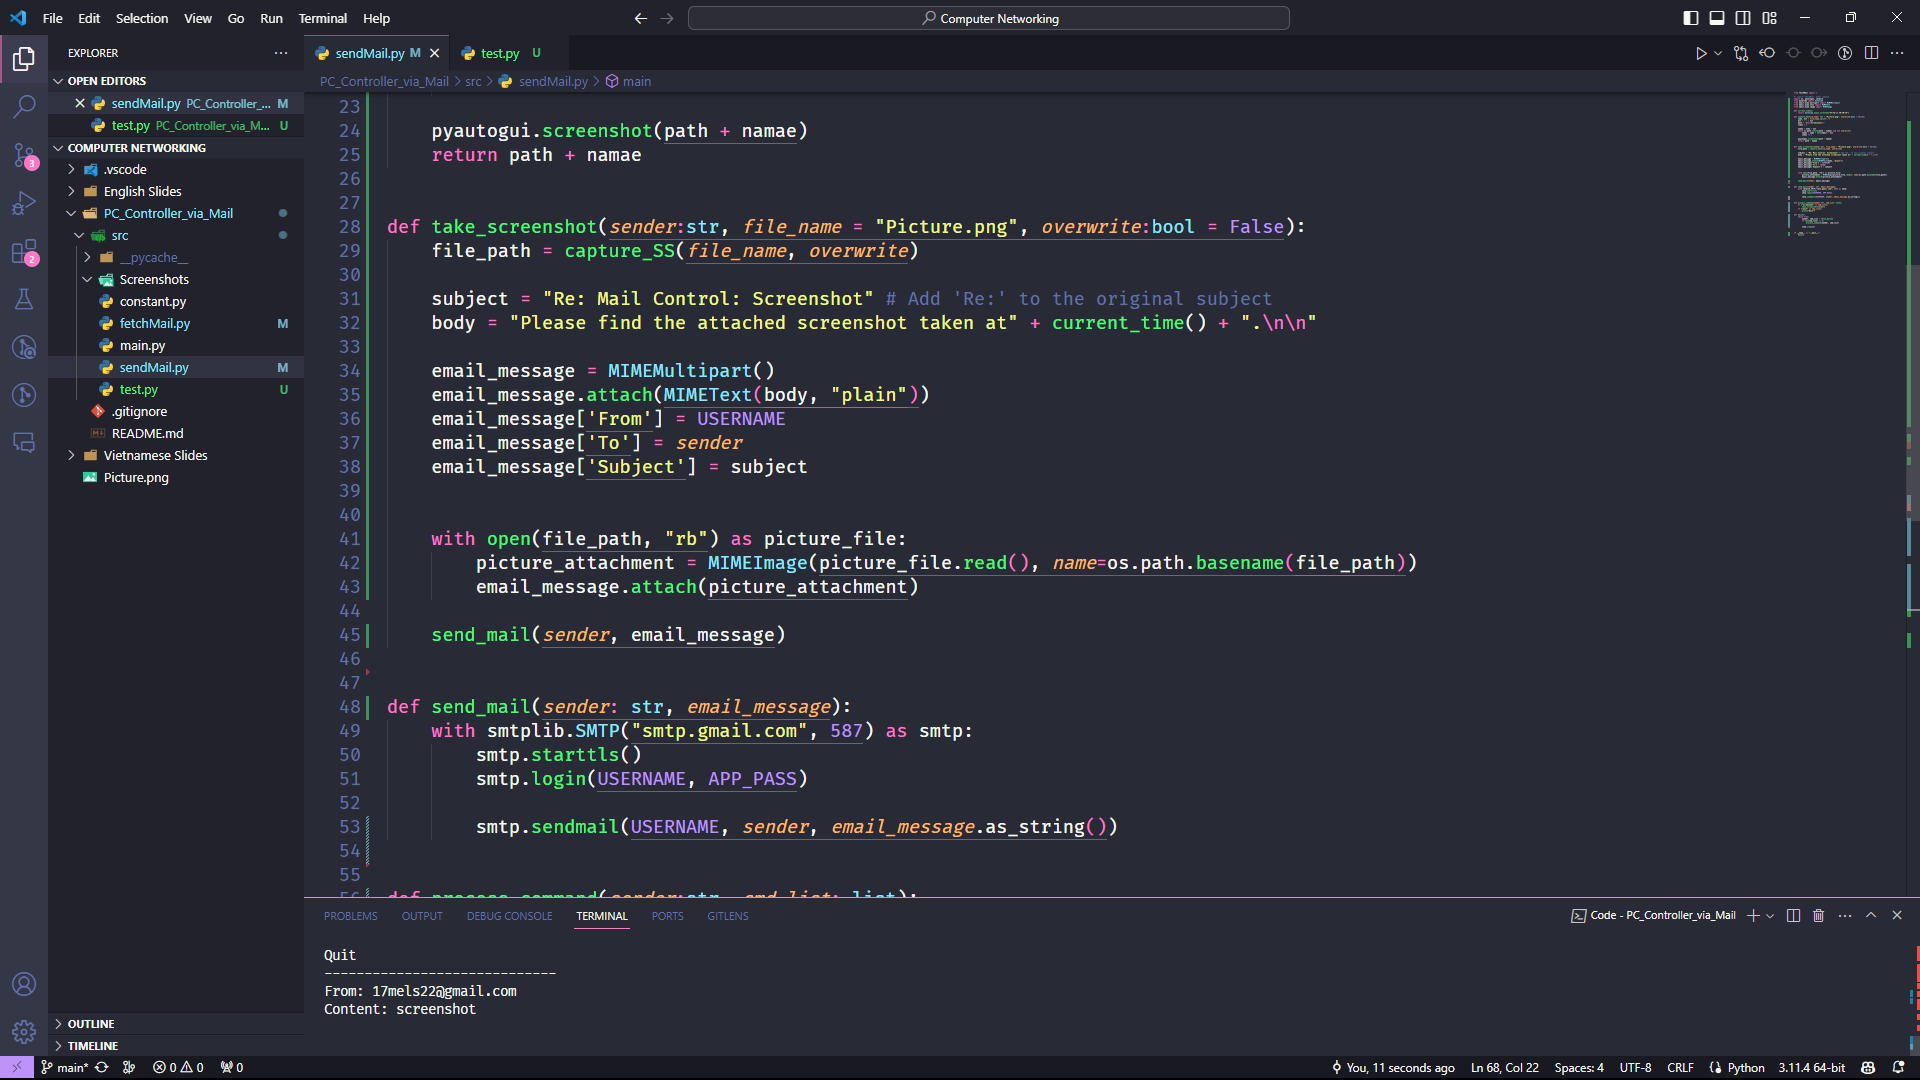
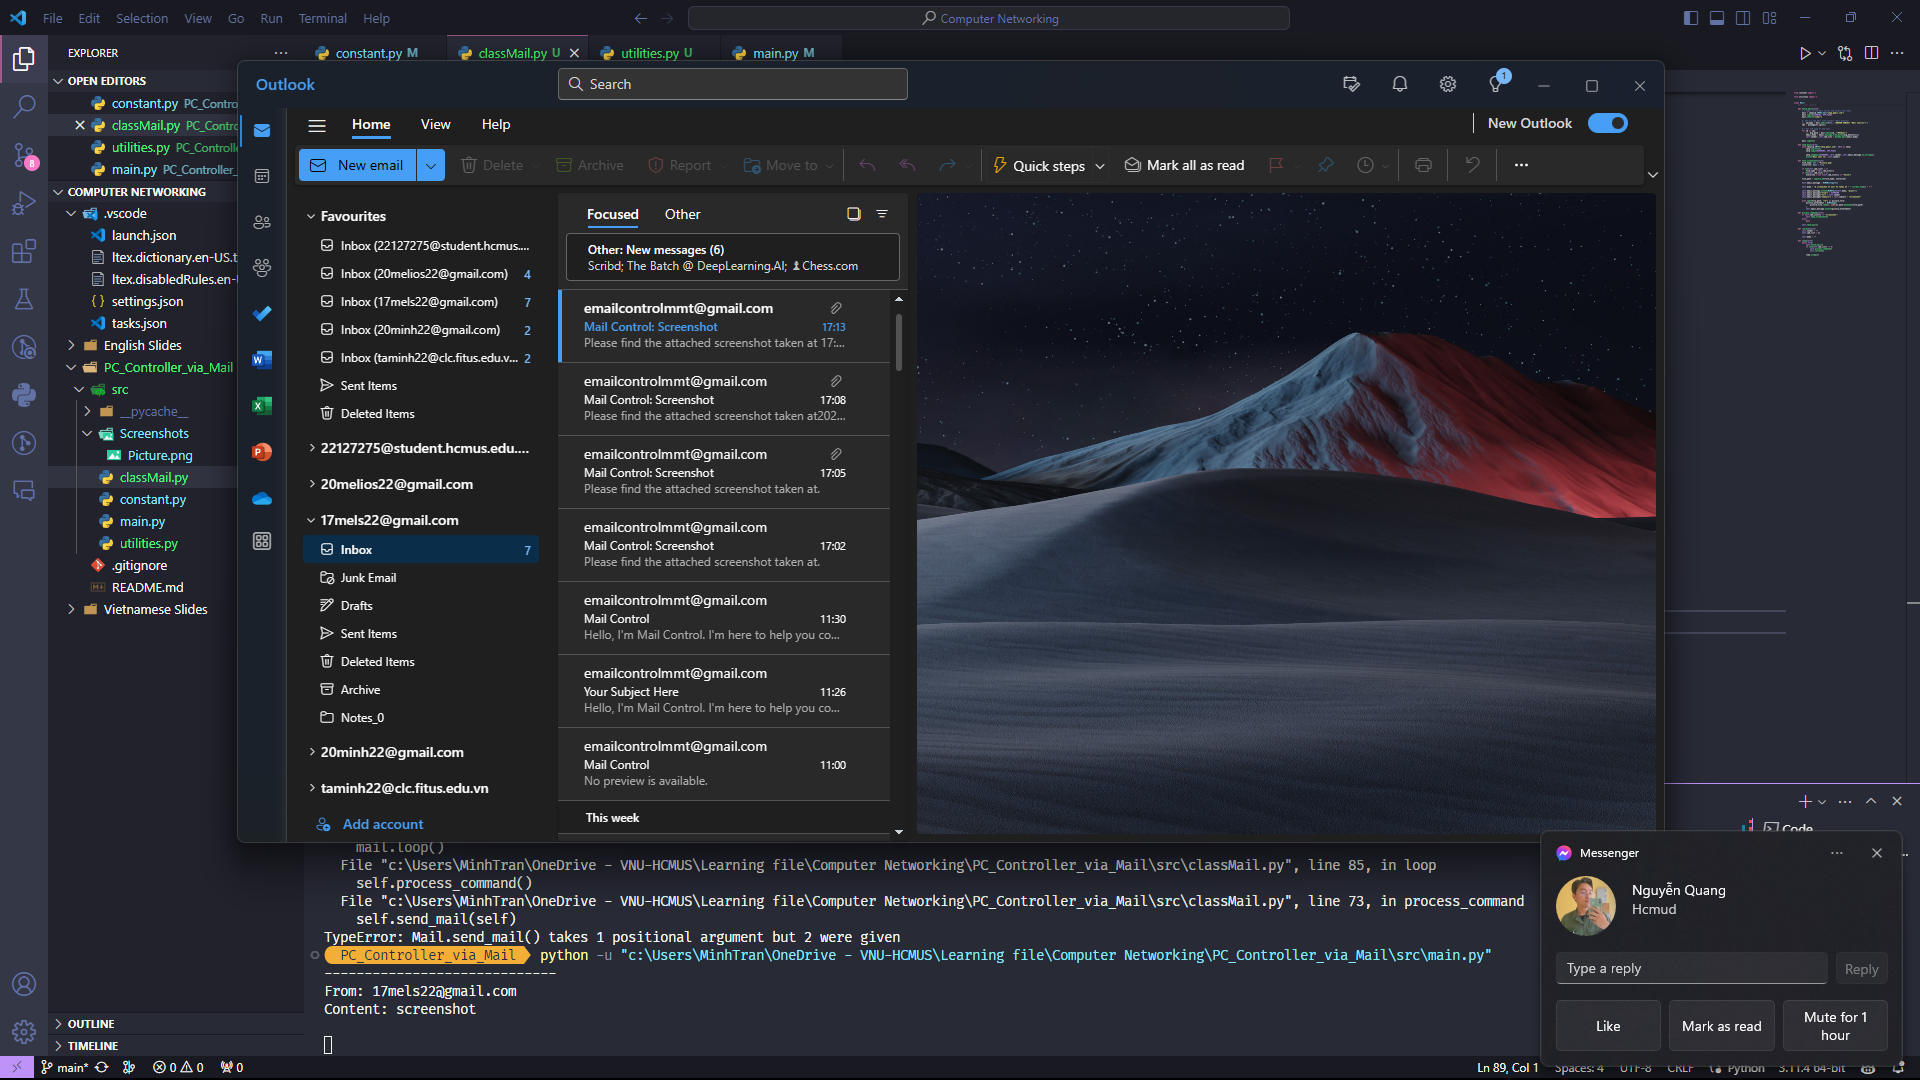
Change to class

diff --git a/src/classMail.py b/src/classMail.py
@@ -1,0 +1,88 @@
+from constant import *
+
+from utilities import *
+
+
+class Mail:
+    def __init__(self):
+        self.sender: str = ""
+        self.cmd_list: list = []
+
+        self.subject: str = "Re: Mail Control: "
+        self.body: str = ""
+        self.email_message: MIMEMultipart
+
+    def fetch_mail(self):
+        # ? Login to the mail server and select the inbox
+        mail = imaplib.IMAP4_SSL("imap.gmail.com")
+        mail.login(USERNAME, APP_PASS)
+        mail.select("inbox")
+
+        #! Get all the mail with subject "Mail Control"
+        *_, message = mail.search(None, '(UNSEEN SUBJECT "Mail Control")')
+        ids = message[0].split()
+
+        # ? Get the body of the mail
+        for id in ids:
+            *_, msg_data = mail.fetch(id, "(RFC822)")
+            email_body = email.message_from_bytes(msg_data[0][1])
+            self.sender, self.cmd_list = decode_mail(email_body)
+
+        mail.logout()
+
+    def send_mail(self):
+        with smtplib.SMTP("smtp.gmail.com", 587) as smtp:
+            smtp.starttls()
+            smtp.login(USERNAME, APP_PASS)
+
+            smtp.sendmail(USERNAME, self.sender, self.email_message.as_string())
+            print("Mail sent to", self.sender)
+
+    def take_screenshot(self):
+        file_name: str = "Picture.png"
+        overwrite: bool = True
+
+        if len(self.cmd_list) > 1:
+            file_name = self.cmd_list[1]
+        if len(self.cmd_list) > 2:
+            overwrite = not (self.cmd_list[2] == "False")
+
+        file_path = capture_SS(file_name, overwrite)
+
+        self.email_message = MIMEMultipart()
+
+        self.body = "A screenshot of your PC taken at " + current_time() + "."
+
+        self.email_message.attach(MIMEText(self.body, "plain"))
+        self.email_message["From"] = USERNAME
+        self.email_message["To"] = self.sender
+        self.email_message["Subject"] = self.subject + "Screenshot"
+
+        with open(file_path, "rb") as picture_file:
+            picture_attachment = MIMEImage(
+                picture_file.read(), name=os.path.basename(file_path)
+            )
+            self.email_message.attach(picture_attachment)
+
+    def process_command(self):
+        if self.cmd_list[0] == "screenshot":
+            self.take_screenshot()
+        else:
+            pass
+
+    def refresh(self):
+        self.sender = ""
+        self.cmd_list = []
+
+        self.body = ""
+
+    def loop(self):
+        while True:
+            self.fetch_mail()
+            if len(self.cmd_list) != 0:
+                self.process_command()
+                self.send_mail()
+                self.refresh()
+
+            time.sleep(2)
+            print("Waiting for new mail...")

diff --git a/src/utilities.py b/src/utilities.py
@@ -1,0 +1,40 @@
+from constant import *
+
+
+def decode_mail(msg: str):
+    cmd_list = ""
+
+    print("-----------------------------")
+    sender = email.utils.parseaddr(msg.get("From"))[1]
+    print("From:", sender)
+    print("Content:", end=" ")
+    for part in msg.walk():
+        if part.get_content_type() == "text/plain":
+            content = part.get_payload(decode=True).decode("utf-8")
+            print(content, end="\t")
+            cmd_list += content
+
+    cmd_list = cmd_list.replace("\n", " ").replace("\r", " ").split()
+    print()
+    # print(cmd_list)
+    return sender, cmd_list
+
+
+def current_time() -> str:
+    return datetime.now().strftime("%H:%M:%S %d-%m-%Y")
+
+
+def capture_SS(file_name: str = "Picture.png", overwrite: bool = True) -> str:
+    name, ext = file_name.split(".")
+    ext = "." + ext
+    path = "src\\Screenshots\\"
+    index = 1
+
+    namae = name + ext
+    while os.path.isfile(path + namae) and not overwrite:
+        namae = name + str(index) + ext
+        index += 1
+
+    # print(path + namae)
+    pyautogui.screenshot(path + namae)
+    return path + namae

diff --git a/src/constant.py b/src/constant.py
@@ -1,3 +1,11 @@
 USERNAME = "emailcontrolmmt@gmail.com"
 PASSWORD = "mmt10diem"
 APP_PASS = "yntx ansy zonv gwcj"
+
+import imaplib, smtplib, email
+import os, pyautogui, time
+
+from datetime import datetime
+from email.mime.multipart import MIMEMultipart
+from email.mime.text import MIMEText
+from email.mime.image import MIMEImage

diff --git a/src/main.py b/src/main.py
@@ -1,0 +1,10 @@
+from classMail import *
+
+
+def main():
+    mail = Mail()
+    mail.loop()
+
+
+if __name__ == "__main__":
+    main()
